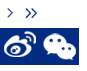
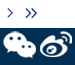
timeline fix

diff --git a/assets/styles/index.css b/assets/styles/index.css
@@ -1,2 +1,2 @@
-*{margin:0;padding:0;border:0;font-family:"Segoe UI", "Microsoft YaHei", "Microsoft JhengHei", Tahoma, Geneva, Verdana, sans-serif, "Segoe UI Symbol"}body{margin:0 auto;text-align:center;width:1200px;background:#e8e8e8}article,aside,dialog,footer,header,section,footer,nav,figure,menu{display:block}#logo{display:none}header{top:-40px;position:relative;width:100%;height:190px;text-align:center}header:hover .slider_nav{display:block}#slider{position:relative;height:232px;overflow:hidden}#slider li{position:absolute;display:none;top:0;left:0}#slider li:first-child{position:relative;display:block;float:left}#slider img{display:block;float:left;position:relative;z-index:1;height:232px;border:0}#slider .caption{display:block;position:absolute;z-index:2;font-size:20px;text-shadow:none;color:#fff;background:#000;background:rgba(0,0,0,0.8);left:0;right:0;bottom:0;padding:10px 20px;margin:0;max-width:none}.slider_tabs{margin-top:-60px;margin-left:40%;position:relative;z-index:20}.slider_tabs li{float:left;display:inline-block;position:relative;width:12px;height:12px;margin-left:5px;border:0}.slider_tabs li a{position:absolute;width:12px;height:12px;overflow:hidden;left:0;color:#979797;color:rgba(151,151,151,0);background:transparent url("../images/tab.png") no-repeat right top}.slider_tabs .slider_here a{color:#fff;color:rgba(255,255,255,0);background:#FFF;background:transparent url("../images/tab.png") no-repeat left top}.slider_nav{position:absolute;-webkit-tap-highlight-color:transparent;top:50%;left:0;opacity:0.6;z-index:20;text-indent:-9999px;overflow:hidden;text-decoration:none;height:61px;width:38px;background:transparent url("../images/themes.gif") no-repeat left top;margin-top:-30px;display:none}.slider_nav:active{opacity:1}.slider_nav.next{left:auto;background-position:right top;right:0}nav{height:40px;position:relative;float:right;top:0;right:0;background:#000;background:rgba(0,0,0,0.6);padding-right:25px;color:#fff;z-index:50}#nav{display:block;list-style-type:none}#nav li{float:left;_display:inline;position:relative;z-index:60;list-style-type:none}#nav li a{display:block;line-height:40px;font-size:15px;color:#fff;padding:0 14px;text-decoration:none}#nav li ul{background:rgba(0,0,0,0.7);position:absolute;top:40px;width:190px;z-index:2;padding:5px 0;display:none;list-style-type:none}#nav li ul li{text-align:left;float:none;display:block;padding:0;margin:0;list-style-type:none}#nav li ul li a{line-height:26px;padding:0 10px;font-size:14px;color:#fff}#nav li.last ul{left:-77px}#smenu{display:none}#timeline{position:relative;top:-28px;z-index:40;font-size:0.9em}#timeline span{width:3%;display:inline-block;position:relative;float:left;background:#000;background:rgba(0,0,0,0.5);color:#fff}#timeline span:hover{cursor:pointer}#timeline span.prev{width:17px;height:30px;overflow:hidden;margin-left:9px;background:url("../images/prevNext.png") no-repeat left center}#timeline span.next{width:17px;height:30px;overflow:hidden;background:url("../images/prevNext.png") no-repeat right center}#timeline ul{display:inline-block;float:left;width:94%}#timeline li{overflow:hidden;height:30px;list-style:none;background:#000;background:rgba(0,0,0,0.5);float:left;margin-right:0.2%;display:inline-block}#timeline li.show{width:29.7%;display:inline-block}#timeline li.hide{display:none}#timeline li.first{width:20%}#timeline li.last{width:20%;margin-right:0px}#timeline a{padding:0.5em 1em;display:block;position:relative;color:#fff;text-decoration:none;white-space:nowrap;text-overflow:ellipsis;overflow:hidden}#timeline a:hover{text-decoration:underline}#body{width:99%;position:relative;top:-30px;background:#fff;padding:0.5%;overflow:hidden}#body>div{display:inline-block;vertical-align:top;float:left;margin-right:5px}#universityNews,#media,#academyNews,#others{border:1px solid #e0e0e0;display:inline-block}#universityNews hr,#media hr,#academyNews hr,#others hr{border-bottom:solid #d5d5d5 1px;margin:8px 0;display:block;overflow:hidden;float:none}#universityNews li,#media li,#academyNews li,#others li{font-size:12px;list-style:none;text-align:left;color:#032f55}#universityNews li .beforeText,#media li .beforeText,#academyNews li .beforeText,#others li .beforeText{width:15px;height:25px;background:url("../images/icons.png") no-repeat left top;display:inline-block;vertical-align:middle}#universityNews li a,#media li a,#academyNews li a,#others li a{display:inline-block;text-decoration:none;color:#333;margin-left:2px;vertical-align:middle}#universityNews li a:hover,#media li a:hover,#academyNews li a:hover,#others li a:hover{color:#204496}#universityNews li .date,#media li .date,#academyNews li .date,#others li .date{display:inline-block;vertical-align:middle;margin-top:6px;float:right;color:#333}.head{text-align:left;overflow:hidden}.head h3,.head a,.head span{display:inline-block;vertical-align:middle;float:left}.head h3{font-size:18px;color:#032b83;vertical-align:middle}.head .more{float:right}.head .more .more-txt{font-size:12px;font-weight:bolder;vertical-align:middle;color:#032b83;text-decoration:none;margin-top:4px}.head .more .icon{width:25px;height:25px;background:url("../images/icons.png") no-repeat -21px 0px}#universityNews{width:36%;height:375px;padding:10px 1%}#universityNews #imageNews{text-align:left}#universityNews #imageNews iframe{width:100%}#universityNews #imageNews img{width:226px;height:150px;float:left;margin-right:10px}#universityNews #imageNews h4{line-height:1.5em}#universityNews #imageNews p{color:#8d8d8d;font-size:0.8em;line-height:1.5em}#universityNews #imageNews span{color:#8d8d8d;font-size:0.8em;float:right;margin-right:10px}#universityNews .news{height:173px}#universityNews .news li a{width:360px;white-space:nowrap;text-overflow:ellipsis;overflow:hidden}#universityNews+div{width:36%}#media,#academyNews{width:94%;height:174px;display:block;padding:10px 3%}#media li .beforeText,#academyNews li .beforeText{height:23px}#media li a,#academyNews li a{width:340px;white-space:nowrap;text-overflow:ellipsis;overflow:hidden}#media{margin-bottom:5px}#others{width:22.6%;height:375px;margin-left:2px;margin-right:0 !important;padding:10px 1%}#others #inform iframe{width:100%;height:75px}#others li a{margin-left:0;width:210px;white-space:nowrap;text-overflow:ellipsis;overflow:hidden}#others #links .news{text-align:left}#others #links .news a{font-size:12px;text-decoration:none;color:#333}#others #links .news a:hover{color:#204496}#others #topics img{width:100%;height:45px;margin-top:5px}footer{background:#032f55;position:relative;top:-30px;height:80px;padding:10px;font-size:12px}footer hr{border-bottom:solid #5a697c 1px;margin:10px 0}footer>div{width:100%;margin:0 auto}#footer_link a{display:inline-block;color:#fff;text-decoration:none}#footer_link .line{margin:0 5px}#footer_left,#footer_right{display:inline-block;vertical-align:middle}#footer_left{color:#fff;margin-left:220px;float:left}#footer_left a{color:#fff;text-decoration:none}#footer_left a:hover{text-decoration:underline}#footer_right{color:#fff;margin-left:20px;float:left}#footer_right div,#footer_right a,#footer_right span{display:inline-block;vertical-align:middle;float:left}#footer_right span{text-align:left;margin:0 10px 0 5px}.weixin{display:inline-block;width:33px;height:27px;background:url("../images/weixinWeibo.png") no-repeat left center}.weibo{display:inline-block;width:32px;height:27px;background:url("../images/weixinWeibo.png") no-repeat right center}@media screen and (max-width: 1280px){body{width:1200px}#footer_left{margin-left:220px}}@media screen and (max-width: 1200px){body{width:1000px}#body #universityNews li a{width:300px}#body>div li a{width:280px}#body #others li a{width:170px}#footer_left{margin-left:120px}}@media screen and (max-width: 1000px){body{width:800px}#universityNews{width:48%}#universityNews+div{width:49%;margin-right:0}#others{width:97.7%;height:auto;margin-top:5px}#others hr{display:none}#others #inform,#others #links{float:left;width:35%;padding-right:1%;margin-right:1%;border-right:2px solid #ccc}#others #links{width:30%}#others #topics{float:left;width:30%}footer{height:130px}#footer_left{margin-left:0;float:none}#footer_right{margin-left:0;float:none;margin-top:10px}}@media screen and (max-width: 800px){body{width:650px}#others{margin-top:0}}@media screen and (max-width: 650px){body{width:100%}#logo{width:100%;display:block}nav{width:100%;height:auto;padding-right:0;top:-40px;margin-top:40px}nav #smenu{display:block;line-height:44px;font-size:18px;padding:0 20px;cursor:pointer;color:#13172d;background:#efefef}nav #nav{display:none}nav #nav ul{overflow:hidden}nav #nav>li{width:100%;float:none;background:#fff}nav #nav>li:hover{background:#b0b0b0}nav #nav>li a{color:#333}#smenu{display:block}#timeline span{display:none}#body>div{width:99.5%;margin-bottom:5px}#body #universityNews,#body #others{width:97.5%}}@media screen and (max-width: 530px){footer{height:160px}}
+*{margin:0;padding:0;border:0;font-family:"Segoe UI", "Microsoft YaHei", "Microsoft JhengHei", Tahoma, Geneva, Verdana, sans-serif, "Segoe UI Symbol"}body{margin:0 auto;text-align:center;width:1200px;background:#e8e8e8}article,aside,dialog,footer,header,section,footer,nav,figure,menu{display:block}#logo{display:none}header{top:-40px;position:relative;width:100%;height:190px;text-align:center}header:hover .slider_nav{display:block}#slider{position:relative;height:232px;overflow:hidden}#slider li{position:absolute;display:none;top:0;left:0}#slider li:first-child{position:relative;display:block;float:left}#slider img{display:block;float:left;position:relative;z-index:1;height:232px;border:0}#slider .caption{display:block;position:absolute;z-index:2;font-size:20px;text-shadow:none;color:#fff;background:#000;background:rgba(0,0,0,0.8);left:0;right:0;bottom:0;padding:10px 20px;margin:0;max-width:none}.slider_tabs{margin-top:-60px;margin-left:40%;position:relative;z-index:20}.slider_tabs li{float:left;display:inline-block;position:relative;width:12px;height:12px;margin-left:5px;border:0}.slider_tabs li a{position:absolute;width:12px;height:12px;overflow:hidden;left:0;color:#979797;color:rgba(151,151,151,0);background:transparent url("../images/tab.png") no-repeat right top}.slider_tabs .slider_here a{color:#fff;color:rgba(255,255,255,0);background:#FFF;background:transparent url("../images/tab.png") no-repeat left top}.slider_nav{position:absolute;-webkit-tap-highlight-color:transparent;top:50%;left:0;opacity:0.6;z-index:20;text-indent:-9999px;overflow:hidden;text-decoration:none;height:61px;width:38px;background:transparent url("../images/themes.gif") no-repeat left top;margin-top:-30px;display:none}.slider_nav:active{opacity:1}.slider_nav.next{left:auto;background-position:right top;right:0}nav{height:40px;position:relative;float:right;top:0;right:0;background:#000;background:rgba(0,0,0,0.6);padding-right:25px;color:#fff;z-index:50}#nav{display:block;list-style-type:none}#nav li{float:left;_display:inline;position:relative;z-index:60;list-style-type:none}#nav li a{display:block;line-height:40px;font-size:15px;color:#fff;padding:0 14px;text-decoration:none}#nav li ul{background:rgba(0,0,0,0.7);position:absolute;top:40px;width:190px;z-index:2;padding:5px 0;display:none;list-style-type:none}#nav li ul li{text-align:left;float:none;display:block;padding:0;margin:0;list-style-type:none}#nav li ul li a{line-height:26px;padding:0 10px;font-size:14px;color:#fff}#nav li.last ul{left:-77px}#smenu{display:none}#timeline{position:relative;top:-28px;z-index:40;font-size:0.9em}#timeline span{width:3%;display:inline-block;position:relative;float:left;background:#000;background:rgba(0,0,0,0.5);color:#fff;z-index:50}#timeline span:hover{cursor:pointer}#timeline span.prev{width:17px;height:30px;overflow:hidden;margin-left:9px;background:url("../images/prevNext.png") no-repeat left center}#timeline span.next{width:17px;height:30px;overflow:hidden;background:url("../images/prevNext.png") no-repeat right center}#timeline div.contain{display:inline-block;float:left;width:94%;height:30px;overflow:hidden}#timeline li{width:280px;overflow:hidden;height:30px;list-style:none;background:#000;background:rgba(0,0,0,0.5);float:left;margin:0 1px;display:inline-block}#timeline a{padding:0.5em 1em;display:block;position:relative;color:#fff;text-decoration:none;white-space:nowrap;text-overflow:ellipsis;overflow:hidden}#timeline a:hover{text-decoration:underline}#body{width:99%;position:relative;top:-30px;background:#fff;padding:0.5%;overflow:hidden}#body>div{display:inline-block;vertical-align:top;float:left;margin-right:5px}#universityNews,#media,#academyNews,#others{border:1px solid #e0e0e0;display:inline-block}#universityNews hr,#media hr,#academyNews hr,#others hr{border-bottom:solid #d5d5d5 1px;margin:8px 0;display:block;overflow:hidden;float:none}#universityNews li,#media li,#academyNews li,#others li{font-size:12px;list-style:none;text-align:left;color:#032f55}#universityNews li .beforeText,#media li .beforeText,#academyNews li .beforeText,#others li .beforeText{width:15px;height:25px;background:url("../images/icons.png") no-repeat left top;display:inline-block;vertical-align:middle}#universityNews li a,#media li a,#academyNews li a,#others li a{display:inline-block;text-decoration:none;color:#333;margin-left:2px;vertical-align:middle}#universityNews li a:hover,#media li a:hover,#academyNews li a:hover,#others li a:hover{color:#204496}#universityNews li .date,#media li .date,#academyNews li .date,#others li .date{display:inline-block;vertical-align:middle;margin-top:6px;float:right;color:#333}.head{text-align:left;overflow:hidden}.head h3,.head a,.head span{display:inline-block;vertical-align:middle;float:left}.head h3{font-size:18px;color:#032b83;vertical-align:middle}.head .more{float:right}.head .more .more-txt{font-size:12px;font-weight:bolder;vertical-align:middle;color:#032b83;text-decoration:none;margin-top:4px}.head .more .icon{width:25px;height:25px;background:url("../images/icons.png") no-repeat -21px 0px}#universityNews{width:36%;height:375px;padding:10px 1%}#universityNews #imageNews{text-align:left}#universityNews #imageNews iframe{width:100%}#universityNews #imageNews img{width:226px;height:150px;float:left;margin-right:10px}#universityNews #imageNews h4{line-height:1.5em}#universityNews #imageNews p{color:#8d8d8d;font-size:0.8em;line-height:1.5em}#universityNews #imageNews span{color:#8d8d8d;font-size:0.8em;float:right;margin-right:10px}#universityNews .news{height:173px}#universityNews .news li a{width:360px;white-space:nowrap;text-overflow:ellipsis;overflow:hidden}#universityNews+div{width:36%}#media,#academyNews{width:94%;height:174px;display:block;padding:10px 3%}#media li .beforeText,#academyNews li .beforeText{height:23px}#media li a,#academyNews li a{width:340px;white-space:nowrap;text-overflow:ellipsis;overflow:hidden}#media{margin-bottom:5px}#others{width:22.6%;height:375px;margin-left:2px;margin-right:0 !important;padding:10px 1%}#others #inform iframe{width:100%;height:75px}#others li a{margin-left:0;width:210px;white-space:nowrap;text-overflow:ellipsis;overflow:hidden}#others #links .news{text-align:left}#others #links .news a{font-size:12px;text-decoration:none;color:#333}#others #links .news a:hover{color:#204496}#others #topics img{width:100%;height:45px;margin-top:5px}footer{background:#032f55;position:relative;top:-30px;height:80px;padding:10px;font-size:12px}footer hr{border-bottom:solid #5a697c 1px;margin:10px 0}footer>div{width:100%;margin:0 auto}#footer_link a{display:inline-block;color:#fff;text-decoration:none}#footer_link .line{margin:0 5px}#footer_left,#footer_right{display:inline-block;vertical-align:middle}#footer_left{color:#fff;margin-left:220px;float:left}#footer_left a{color:#fff;text-decoration:none}#footer_left a:hover{text-decoration:underline}#footer_right{color:#fff;margin-left:20px;float:left}#footer_right a{display:inline-block;vertical-align:middle;float:left;text-decoration:none}#footer_right a .text{display:inline-block;vertical-align:top;text-align:left;margin-right:10px;color:#fff}#footer_right .weixin .img{display:inline-block;width:40px;height:35px;background:url("../images/icons.png") no-repeat 0 -28px}#footer_right .weibo .img{display:inline-block;width:40px;height:35px;background:url("../images/icons.png") no-repeat -40px -28px}@media screen and (max-width: 1280px){body{width:1200px}#footer_left{margin-left:220px}}@media screen and (max-width: 1200px){body{width:1000px}#body #universityNews li a{width:300px}#body>div li a{width:280px}#body #others li a{width:170px}#footer_left{margin-left:120px}}
 /*# sourceMappingURL=index.css.map */

diff --git a/index2.html b/index2.html
@@ -37,6 +37,7 @@
 			index.slide();
 			index.navData();
 			index.nav();
+			index.timeline();
 			index.topicData();
 // 			index.iframeBlockStyle();
 		})
@@ -78,6 +79,16 @@
 		<span>
 			<span class="prev"></span>
 		</span>
+		<div class="contain">
+		<ul>
+			<li class="show first"><a href="#" title="《光明日报》东北大学孙家学">1.《光明日报》东北大学孙家学</a></li>
+			<li class="show"><a href="#" title="东北大学学生荣获国际大学生数学建模竞赛19项一等奖">2.东北大学学生荣获国际大学生数学建模竞赛19项一等</a></li>
+			<li class="show"><a href="#">3.赵继率队同和平区政府洽谈合作事宜</a></li>
+			<li class="show last"><a href="#">4.中国工程院院士干勇视察</a></li>
+			<li class="hide"><a href="www.baidu.com">5.《三体》获奖</a></li>
+			<li class="hide"><a href="#">6.70周年阅兵仪式</a></li>
+		</ul>
+<!--
 		<ul>
 			<li class="show first"><a href="#" title="《光明日报》东北大学孙家学">《光明日报》东北大学孙家学</a></li>
 			<li class="show"><a href="#" title="东北大学学生荣获国际大学生数学建模竞赛19项一等奖">东北大学学生荣获国际大学生数学建模竞赛19项一等</a></li>
@@ -86,6 +97,8 @@
 			<li class="hide"><a href="#">第四条信息：《三体》获奖</a></li>
 			<li class="hide"><a href="#">第五条信息：70周年阅兵仪式</a></li>
 		</ul>
+-->
+		</div>
 		<span>
 			<span class="next"></span>
 		</span>
@@ -236,14 +249,14 @@
 				</p>
 			</div>
 			<div id="footer_right">
-				<div>
-					<a class="weixin" href="/index_weixin.htm" target="blank"></a>
-					<span>东北大学官方微信<br/>neu-1923</span>
-				</div>
-				<div>
-					<a class="weibo" href="http://weibo.com/neu1923" target="blank"></a>
-					<span>东北大学官方微博<br/>neu1923</span>
-				</div>
+				<a class="weixin" href="/index_weixin.htm" target="blank">
+					<span class="img"></span>
+					<span class="text">东北大学官方微信<br/>neu-1923</span>
+				</a>
+				<a class="weibo" href="http://weibo.com/neu1923" target="blank">
+					<span class="img"></span>
+					<span class="text">东北大学官方微博<br/>neu1923</span>
+				</a>
 			</div>
 		</div>
 	</footer>

diff --git a/assets/styles/index.scss b/assets/styles/index.scss
@@ -238,6 +238,7 @@ nav {
 		background: #000;
 		background:rgba(0,0,0,0.5);
 		color: #fff;
+		z-index: 50;
 		
 		&:hover {
 			cursor: pointer;
@@ -257,36 +258,35 @@ nav {
 		background: url("../images/prevNext.png") no-repeat right center;
 	}
 	
-	ul {
+	div.contain {
 		display: inline-block;
 		float: left;
 		width: 94%;
+		height: 30px;
+		overflow: hidden;
+	}
+	
+	ul {
+		
 	}
 	
 	li {
+		width: 280px;//24.85%;
 		overflow: hidden;
 		height: 30px;
 		list-style: none;
 		background: #000;
 		background: rgba(0, 0, 0, 0.5);
 		float: left;
-		margin-right: 0.2%;
+		margin: 0 1px;
 		display: inline-block;
 	}
-	li.show {
-		width: 29.7%;
-		display: inline-block;
-	}
+/*
 	li.hide {
 		display: none;
 	}
-	li.first {
-		width: 20%;
-	}
-	li.last {
-		width: 20%;
-		margin-right: 0px;
-	}
+*/
+	
 	
 	a {
 		padding: 0.5em 1em;
@@ -606,30 +606,35 @@ footer > div {
 	margin-left: 20px;
 	float: left;
 	
-	div,a,span {
+	a {
 		display: inline-block;
 		vertical-align: middle;
 		float: left;
+		text-decoration: none;
+		
+		.text {
+			display: inline-block;
+			vertical-align: top;
+			text-align: left;
+			margin-right: 10px;
+			color: #fff;
+		}
 	}
 	
-	span {
-		text-align: left;
-		margin: 0 10px 0 5px;
+		
+	.weixin .img {
+		display: inline-block;
+		width: 40px;
+		height: 35px;
+		background: url("../images/icons.png") no-repeat 0 -28px;
 	}
-}
-
-.weixin {
-	display: inline-block;
-	width: 33px;
-	height: 27px;
-	background: url("../images/weixinWeibo.png") no-repeat left center;
-}
-
-.weibo {
-	display: inline-block;
-	width: 32px;
-	height: 27px;
-	background: url("../images/weixinWeibo.png") no-repeat right center;
+	
+	.weibo .img {
+		display: inline-block;
+		width: 40px;
+		height: 35px;
+		background: url("../images/icons.png") no-repeat -40px -28px;
+	}
 }
 
 
@@ -666,6 +671,8 @@ footer > div {
 	}
 }
 
+
+/*
 @media screen and (max-width: 1000px) { 
 	body {
 		width: 800px;
@@ -809,3 +816,4 @@ footer > div {
 		height: 160px;
 	}
 }
+*/

diff --git a/mods/index.js b/mods/index.js
@@ -175,25 +175,34 @@ define(function(require,exports,module){
 	exports.timeline = function(){
 		var $prev = $("#timeline .prev");
 		var $next = $("#timeline .next");
+		var $newsCon1 = $("#timeline ul:first");
+// 		var $newsCon2 = $("#timeline ul:last");
 		var $news = $("#timeline li");
+		var size = $news.size();
 		
-		if( $news.size()<=4 ){
+		if( size<=4 ){
 			$prev.hide();
 			$next.hide();
 		}
 		
-		
-		$news[0].addClass("show first");
-		$news[1].addClass("show");
-		$news[2].addClass("show");
-		$news[3].addClass("show last");
+		$newsCon1.css("width", size*282+"px");
 		
 		$prev.bind('click', function(){
-			
+			if( parseInt($newsCon1.css("marginLeft"))>(-1) ){
+				$newsCon1.animate({marginLeft:-564+"px"});
+			}else{
+				$newsCon1.animate({marginLeft:'+=282px'});
+			}
 		});
 		
 		$next.bind('click', function(){
-			
+			console.log( "before"+$newsCon1.css("marginLeft") );
+			if( parseInt($newsCon1.css("marginLeft"))<(-563) ){
+				console.log("move");
+				$newsCon1.animate({marginLeft:0+"px"});
+			}else{
+				$newsCon1.animate({marginLeft:'-=282px'});
+			}
 		});
 	}
 	
